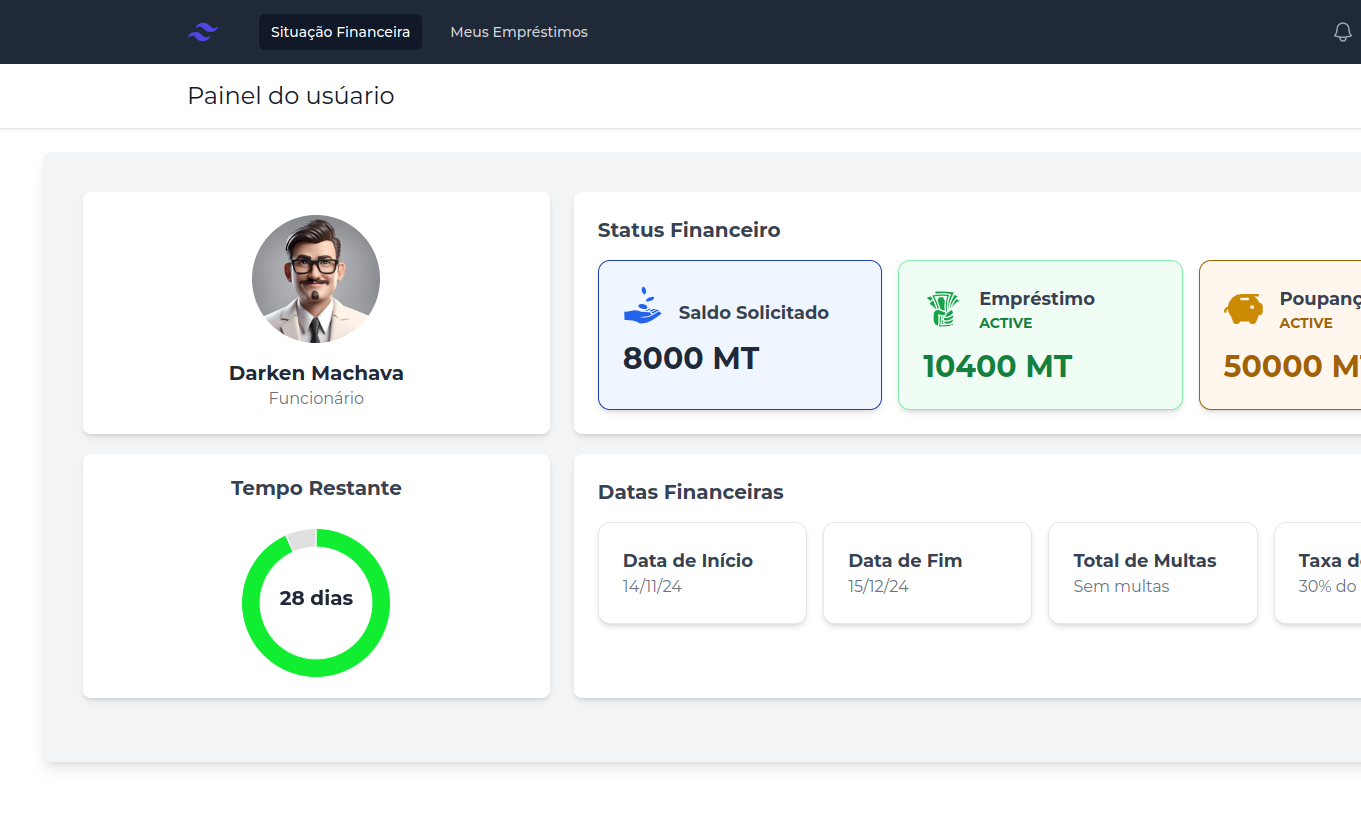
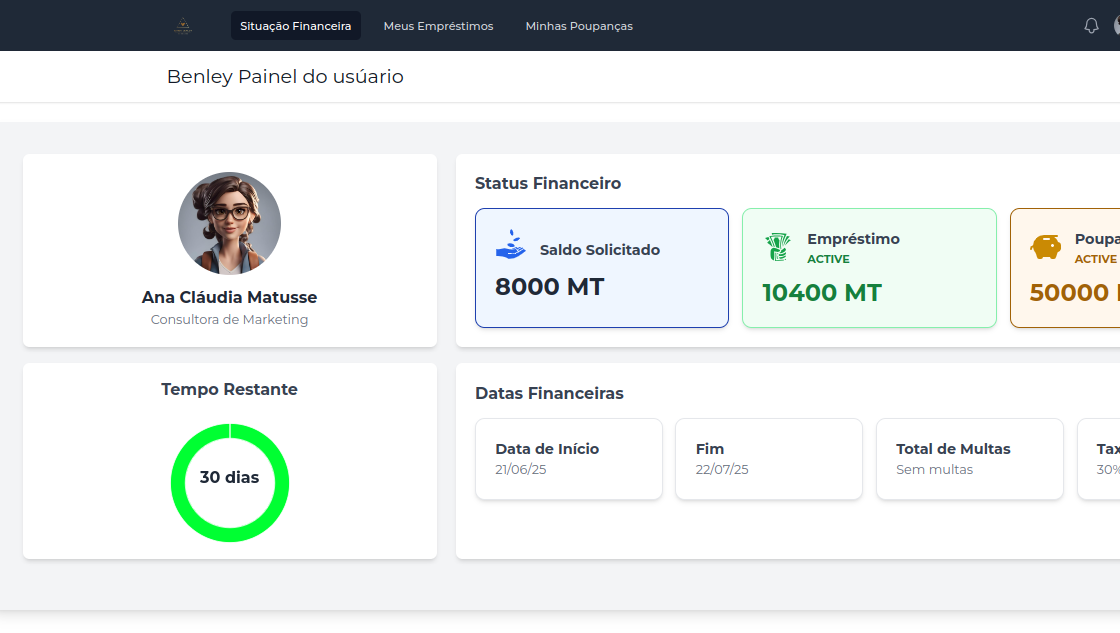
chore: adding new images types

diff --git a/ui/evolution/src/pages/SignUp/index.tsx b/ui/evolution/src/pages/SignUp/index.tsx
@@ -236,7 +236,7 @@ const SignUp: React.FC = () => {
 
             <div data-aos="zoom-in" className="flex justify-center items-center min-h-screen">
                 <div className="bg-gradient-to-br from-gray-100 via-white to-gray-100 rounded-lg shadow-xl w-full max-w-screen-2xl p-8 mx-4 relative overflow-hidden before:content-[''] before:absolute before:w-48 before:h-48 before:bg-gradient-to-r before:from-gray-400 before:to-blue-500 before:opacity-20 before:rounded-full before:top-0 before:left-0 before:-translate-x-1/2 before:-translate-y-1/2 after:content-[''] after:absolute after:w-64 after:h-64 after:bg-gradient-to-r after:from-yellow-400 after:to-red-500 after:opacity-20 after:rounded-full after:bottom-0 after:right-0 after:translate-x-1/2 after:translate-y-1/2">
-                    <h2 className="lg:text-3xl text-xl font-extrabold text-center text-gray-800 mb-6">Formulário de Inscrição do Cliente</h2>
+                    <h2 className="lg:text-3xl text-xl font-extrabold text-center text-gray-800 mb-6">Formulário de Inscrição</h2>
                     <form onSubmit={handleSubmit} className="space-y-6">
                         {/* Informação do Cliente */}
                         <div>
